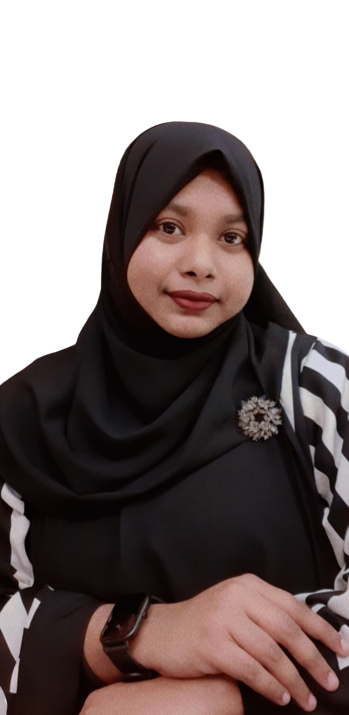
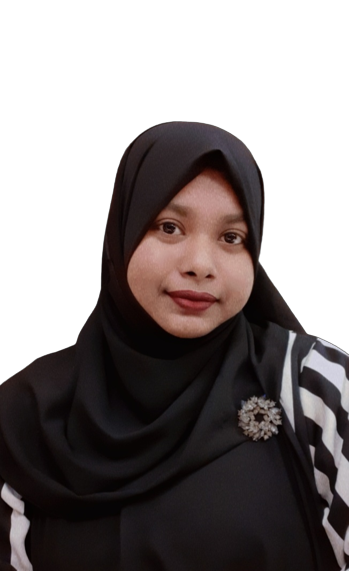
about section created

diff --git a/index.html b/index.html
@@ -1,14 +1,16 @@
 <!DOCTYPE html>
 <html lang="en">
+
 <head>
     <meta charset="UTF-8">
     <meta name="viewport" content="width=device-width, initial-scale=1.0">
     <title>Web Developer Portfolio</title>
     <link rel="preconnect" href="https://fonts.googleapis.com">
-<link rel="preconnect" href="https://fonts.gstatic.com" crossorigin>
-<link href="https://fonts.googleapis.com/css2?family=Open+Sans:wght@400;700;800&display=swap" rel="stylesheet">
+    <link rel="preconnect" href="https://fonts.gstatic.com" crossorigin>
+    <link href="https://fonts.googleapis.com/css2?family=Open+Sans:wght@400;700;800&display=swap" rel="stylesheet">
     <link rel="stylesheet" href="styles/portfolio.css">
 </head>
+
 <body>
     <header class="header">
         <nav>
@@ -21,16 +23,26 @@
         </nav>
         <div class="banner">
             <div class="banner-content">
-                <h3 class="banner-greeting">Hi, I  am</h3>
+                <h3 class="banner-greeting">Hi, I am</h3>
                 <h1 class="banner-titel">Shamiha Binte Ali</h1>
-                <p>Shot what able cold new see hold.Friendly as an betrayed formerly he. Morning because as to society behaved moments.</p>
+                <p class="banner-des">Shot what able cold new see hold.Friendly as an betrayed formerly he. Morning
+                    because as to society behaved moments.</p>
                 <button class="btn-primary">Download CV</button>
                 <button class="btn-primary">Contact</button>
             </div>
-            <img class="profile-picture" src="images/me1.png" alt="">
+            <img class="profile-picture" src="images/me6.png" alt="">
         </div>
     </header>
-    <main></main>
+    <main>
+        <section class="about">
+            <h3 class="section-title">About Me</h3>
+            <p class="section-description">I, m a designer & developer with a passion for web design. I enjoy developing
+                simple, clean and slick websites that provide real value to the end user. Thousands of clients have
+                procured exceptional results while working with me. Delivering work within time and budget which meets
+                clients requirements in our mata.</p>
+        </section>
+    </main>
     <footer></footer>
 </body>
+
 </html>

diff --git a/styles/portfolio.css b/styles/portfolio.css
@@ -18,12 +18,26 @@ body {
     padding: 18px 36px 18px 36px;
 }
 
+.section-title {
+    color: #181818;
+    text-align: center;
+    font-size: 35px;
+    font-weight: 700;
+}
+
+.section-des {
+    color: #757575;
+    text-align: center;
+    font-size: 18px;
+}
+
+
 /* nav related styles */
 nav {
     display: flex;
     justify-content: space-between;
     align-items: center;
-    margin:0 200px ;
+    margin: 0 200px;
 
 }
 
@@ -50,15 +64,50 @@ nav a {
 }
 
 /* header related styles */
-header {
+.header {
     background-color: #FFF8F3;
+    background-image: url('../images/header_bg.png');
+    background-repeat: no-repeat;
+    background-position: bottom right;
 }
-.banner{
-    padding:30px 30px 30px 150px;
+
+.banner {
+    padding: 30px 50px 0px 150px;
     display: flex;
     align-items: center;
+    justify-content: space-between
+}
+
+.banner-content {
+    max-width: 500px;
+}
+
+.banner .profile-picture {
+    width: 580px;
 
 }
-.banner .profile-picture{
-    width: 500px;
+
+.banner-greeting {
+    font-size: 45px;
+    color: #474747;
+    margin-bottom: 0px;
+}
+
+.banner-title {
+    font-size: 85px;
+    font-weight: 700px;
+    margin-top: 5px;
+    margin-bottom: 20px;
+
+}
+
+/* main section styles */
+
+/* about section styles */
+.about {
+    padding: 130px;
+    border-radius: 10px;
+    background: #FFF8F3;
+    margin:130px ;
+
 }
